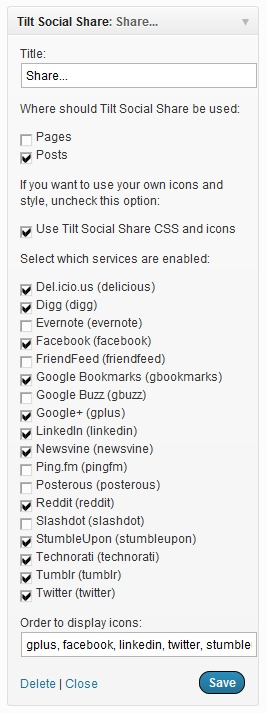
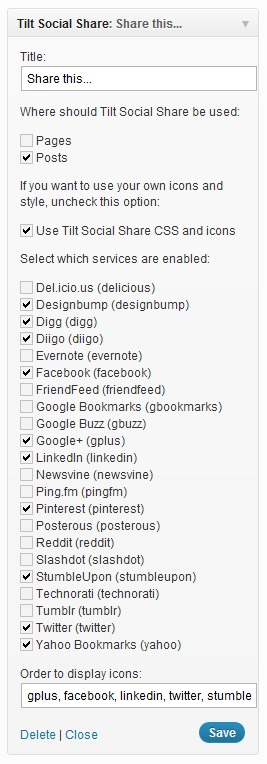
git-svn-id: https://plugins.svn.wordpress.org/tilt-social-share-widget/trunk@527477 b8457f37-d9ea-0310-8a92-e5e31aec5664

Changed region(s): [[0.0602, 0.0, 0.9925, 1.0], [0.9023, 0.0, 0.9323, 0.0309]]

diff --git a/css/style.css b/css/style.css
@@ -3,6 +3,7 @@ ul.tssw-list {
 	*margin-top: 10px;
 	padding: 0px;
 	list-style-type: none;
+	list-style: none;
 }
 
 li.tssw-item {
@@ -150,3 +151,20 @@ span.tssw-tumblr {
 span.tssw-twitter {
 	background-position: -544px 0px;
 }
+
+span.tssw-pinterest {
+	background-position: -576px 0px;
+}
+
+span.tssw-diigo {
+	background-position: -608px 0px;
+}
+
+span.tssw-yahoo {
+	background-position: -640px 0px;
+}
+
+span.tssw-designbump {
+	background-position: -672px 0px;
+}
+

diff --git a/tilt-social-share.php b/tilt-social-share.php
@@ -4,7 +4,7 @@ Plugin Name: Tilt Social Share Widget
 Plugin URI: http://xonoxlabs.com/
 Description: Display icons that allow users to share your posts and pages in common social websites.
 Author: Rui Oliveira
-Version: 0.6
+Version: 0.7
 Author URI: http://xonoxlabs.com/
 */
 
@@ -20,11 +20,23 @@ class tiltSocialWidget extends WP_Widget {
 			'label' => 'Del.icio.us',
 			'url' => 'http://del.icio.us/post?url=[URL]&title=[TITLE]]&notes=[DESCRIPTION]'
 		),
+		'designbump' => array(
+			'slug' => 'designbump',
+			'name' => 'Designbump',
+			'label' => 'Designbump',
+			'url' => 'http://www.designbump.com/submit?url=[URL]&title=[TITLE]'
+		),
 		'digg' => array(
 			'slug' => 'digg',
 			'name' => 'Digg',
 			'label' => 'Digg',
 			'url' => 'http://www.digg.com/submit?phase=2&url=[URL]&title=[TITLE]'
+		),
+		'diigo' => array(
+			'slug' => 'diigo',
+			'name' => 'Diigo',
+			'label' => 'Diigo',
+			'url' => 'http://www.diigo.com/post?url=[URL]&title=[TITLE]'
 		),
 		'evernote' => array(
 			'slug' => 'evernote',
@@ -80,6 +92,12 @@ class tiltSocialWidget extends WP_Widget {
 			'label' => 'Ping.fm',
 			'url' => 'http://ping.fm/ref/?link=[URL]&title=[TITLE]&body=[DESCRIPTION]'
 		),
+		'pinterest' => array(
+			'slug' => 'pinterest',
+			'name' => 'Pinterest',
+			'label' => 'Pinterest',
+			'url' => 'http://pinterest.com/pin/create/button/?url=[URL]&media=[URL]&description=[DESCRIPTION]'
+		),
 		'posterous' => array(
 			'slug' => 'posterous',
 			'name' => 'Posterous',
@@ -121,6 +139,12 @@ class tiltSocialWidget extends WP_Widget {
 			'name' => 'Twitter',
 			'label' => 'Twitter',
 			'url' => 'http://twitter.com/home?status=[TITLE]+[URL]'
+		),
+		'yahoo' => array(
+			'slug' => 'yahoo',
+			'name' => 'Yahoo Bookmarks',
+			'label' => 'Yahoo Bookmarks',
+			'url' => 'http://bookmarks.yahoo.com/toolbar/savebm?u=[URL]&t=[TITLE]'
 		)
 	);
 
@@ -140,7 +164,9 @@ class tiltSocialWidget extends WP_Widget {
 			'posts' => true,
 			'order' => 'gplus, facebook, linkedin, twitter, stumbleupon, digg, delicious',
 			'on_delicious' => false,
+			'on_designbump' => false,
 			'on_digg' => true,
+			'on_diigo' => false,
 			'on_evernote' => false,
 			'on_facebook' => true,
 			'on_friendfeed' => false,
@@ -150,13 +176,15 @@ class tiltSocialWidget extends WP_Widget {
 			'on_linkedin' => true,
 			'on_newsvine' => false,
 			'on_pingfm' => false,
+			'on_pinterest' => false,
 			'on_posterous' => false,
 			'on_reddit' => true,
 			'on_slashdot' => false,
 			'on_stumbleupon' => true,
 			'on_technorati' => false,
 			'on_tumblr' => true,
-			'on_twitter' => true
+			'on_twitter' => true,
+			'on_yahoo' => false
 		);
 		
 		$instance = wp_parse_args((array)$instance, $defaults); 
@@ -208,7 +236,9 @@ class tiltSocialWidget extends WP_Widget {
 		$instance['posts'] = (bool)$new_instance['posts'];
 		$instance['order'] = strip_tags($new_instance['order']);
 		$instance['on_delicious'] = (bool)$new_instance['on_delicious'];
+		$instance['on_designbump'] = (bool)$new_instance['on_designbump'];
 		$instance['on_digg'] = (bool)$new_instance['on_digg'];
+		$instance['on_diigo'] = (bool)$new_instance['on_diigo'];
 		$instance['on_evernote'] = (bool)$new_instance['on_evernote'];
 		$instance['on_facebook'] = (bool)$new_instance['on_facebook'];
 		$instance['on_friendfeed'] = (bool)$new_instance['on_friendfeed'];
@@ -218,6 +248,7 @@ class tiltSocialWidget extends WP_Widget {
 		$instance['on_linkedin'] = (bool)$new_instance['on_linkedin'];
 		$instance['on_newsvine'] = (bool)$new_instance['on_newsvine'];
 		$instance['on_pingfm'] = (bool)$new_instance['on_pingfm'];
+		$instance['on_pinterest'] = (bool)$new_instance['on_pinterest'];
 		$instance['on_posterous'] = (bool)$new_instance['on_posterous'];
 		$instance['on_reddit'] = (bool)$new_instance['on_reddit'];
 		$instance['on_slashdot'] = (bool)$new_instance['on_slashdot'];
@@ -225,6 +256,7 @@ class tiltSocialWidget extends WP_Widget {
 		$instance['on_technorati'] = (bool)$new_instance['on_technorati'];
 		$instance['on_tumblr'] = (bool)$new_instance['on_tumblr'];
 		$instance['on_twitter'] = (bool)$new_instance['on_twitter'];
+		$instance['on_yahoo'] = (bool)$new_instance['on_yahoo'];
 
 		return($instance);
 	
